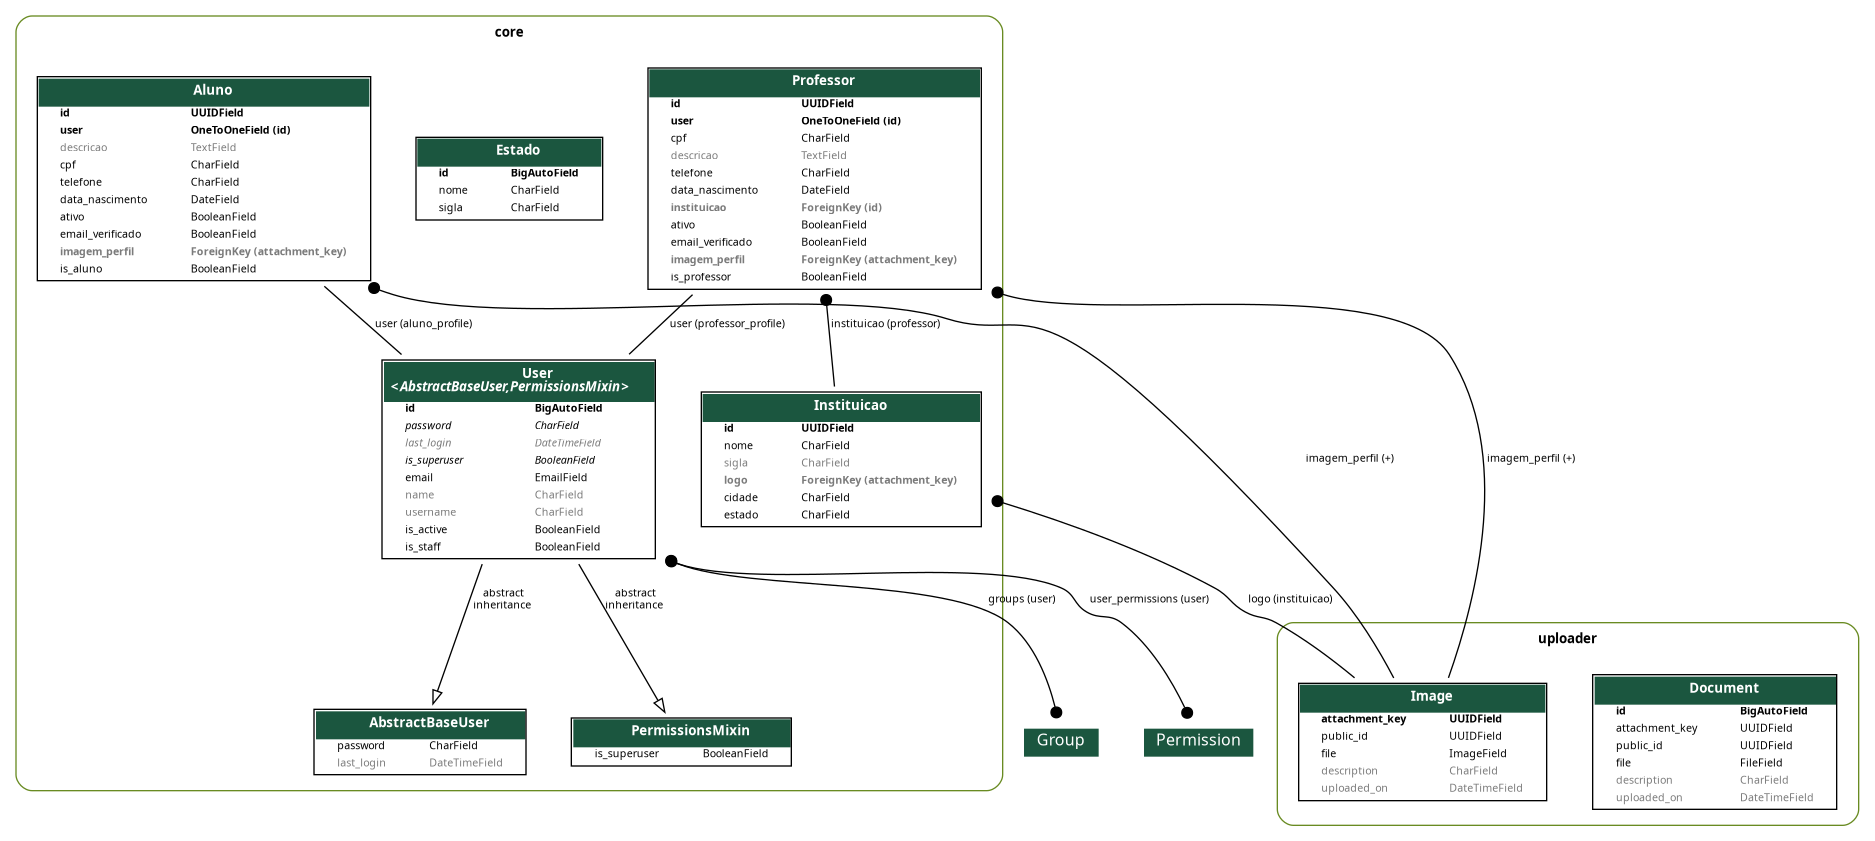
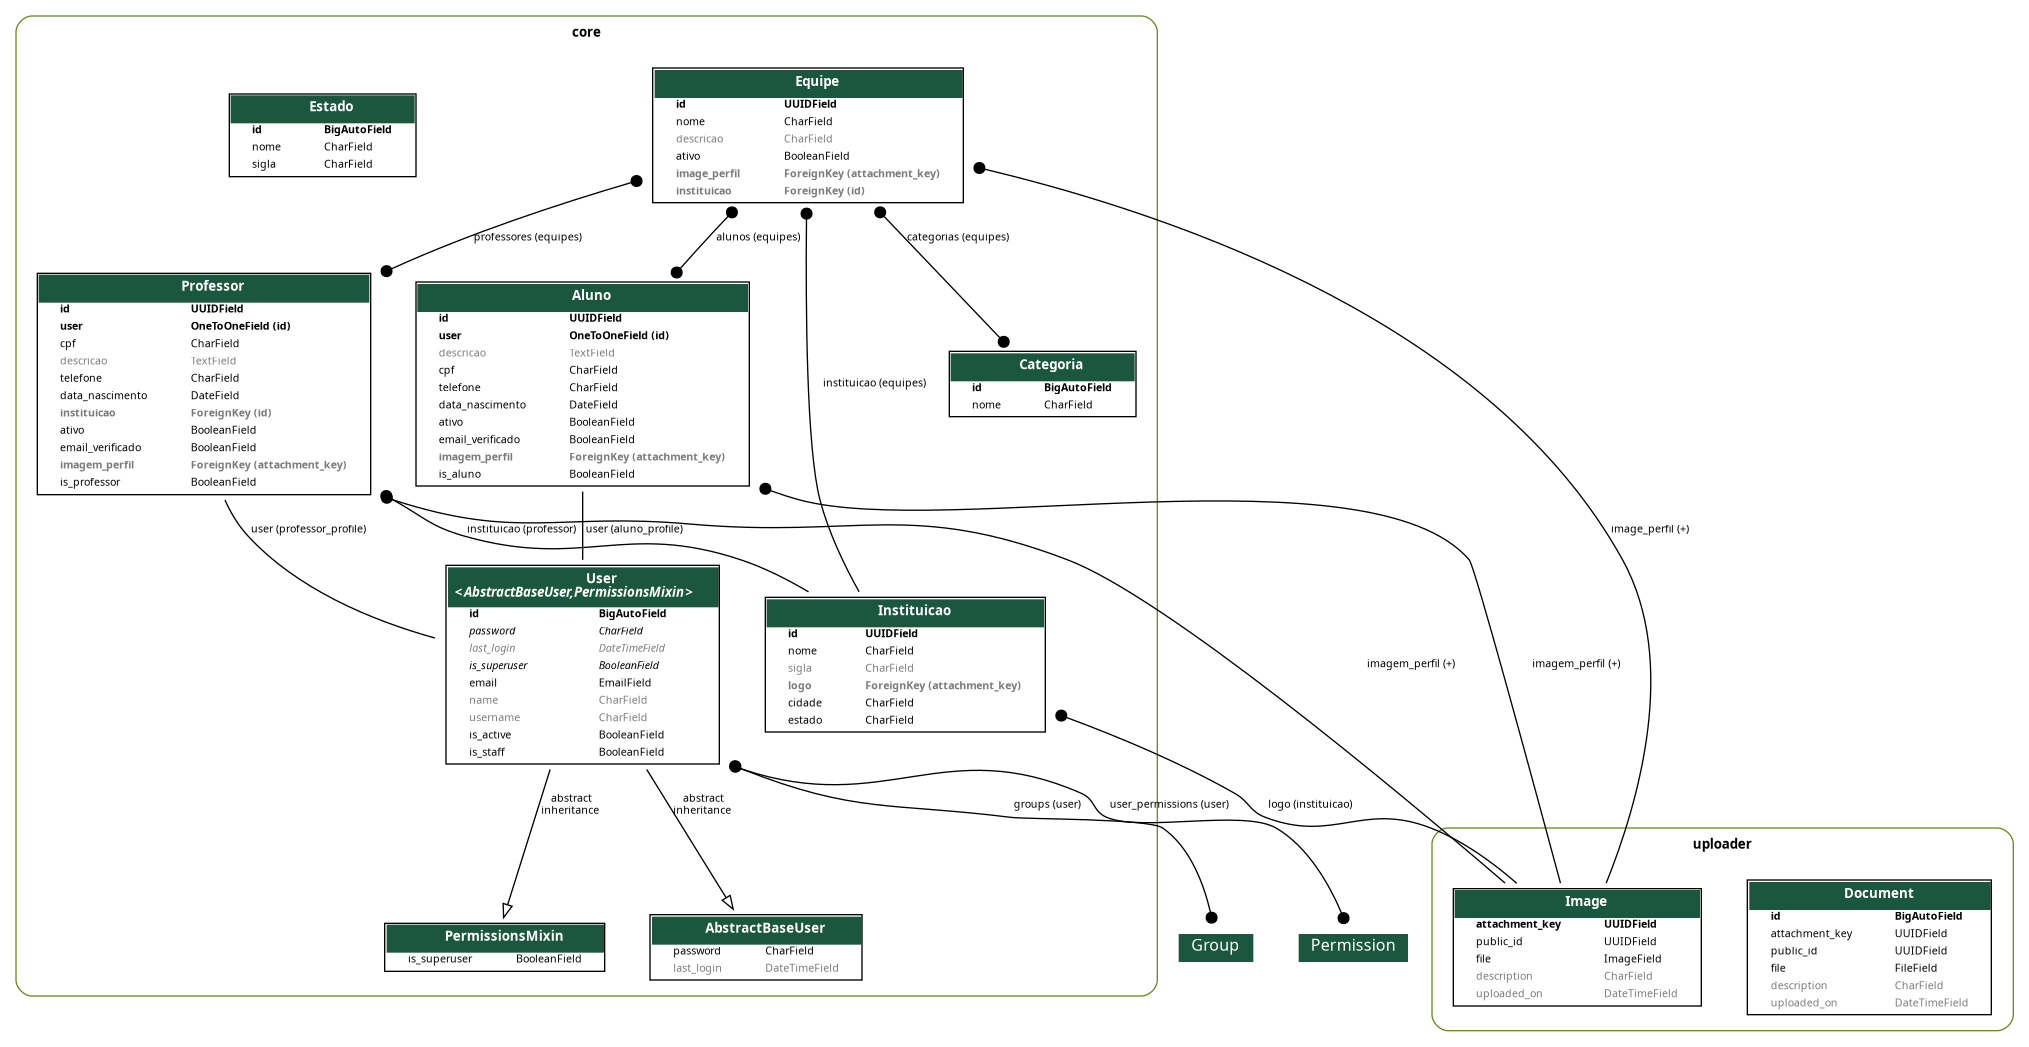
FIX: Corrigindo as migrations

diff --git a/core/migrations/0001_initial.py b/core/migrations/0001_initial.py
@@ -1,4 +1,4 @@
-# Generated by Django 5.2.12 on 2026-04-28 11:01
+# Generated by Django 5.2.12 on 2026-05-08 17:13
 
 import core.models.user
 import django.db.models.deletion
@@ -17,6 +17,13 @@ class Migration(migrations.Migration):
     ]
 
     operations = [
+        migrations.CreateModel(
+            name='Categoria',
+            fields=[
+                ('id', models.BigAutoField(auto_created=True, primary_key=True, serialize=False, verbose_name='ID')),
+                ('nome', models.CharField(max_length=50)),
+            ],
+        ),
         migrations.CreateModel(
             name='Estado',
             fields=[
@@ -93,6 +100,24 @@ class Migration(migrations.Migration):
                 'verbose_name': 'professor',
                 'verbose_name_plural': 'professores',
                 'ordering': ['id'],
+            },
+        ),
+        migrations.CreateModel(
+            name='Equipe',
+            fields=[
+                ('id', models.UUIDField(default=uuid.uuid4, editable=False, primary_key=True, serialize=False)),
+                ('nome', models.CharField(max_length=50)),
+                ('descricao', models.CharField(blank=True, max_length=1000, null=True)),
+                ('ativo', models.BooleanField(default=True)),
+                ('alunos', models.ManyToManyField(blank=True, related_name='equipes', to='core.aluno')),
+                ('categorias', models.ManyToManyField(blank=True, related_name='equipes', to='core.categoria')),
+                ('image_perfil', models.ForeignKey(blank=True, null=True, on_delete=django.db.models.deletion.SET_NULL, related_name='+', to='uploader.image')),
+                ('instituicao', models.ForeignKey(blank=True, null=True, on_delete=django.db.models.deletion.CASCADE, related_name='equipes', to='core.instituicao')),
+                ('professores', models.ManyToManyField(blank=True, related_name='equipes', to='core.professor')),
+            ],
+            options={
+                'verbose_name': 'equipe',
+                'verbose_name_plural': 'equipes',
             },
         ),
     ]

diff --git a/uploader/migrations/0001_initial.py b/uploader/migrations/0001_initial.py
@@ -1,4 +1,4 @@
-# Generated by Django 5.2.12 on 2026-04-28 11:01
+# Generated by Django 5.2.12 on 2026-05-08 17:13
 
 import uploader.models.document
 import uploader.models.image
